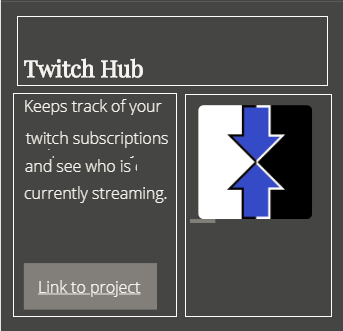
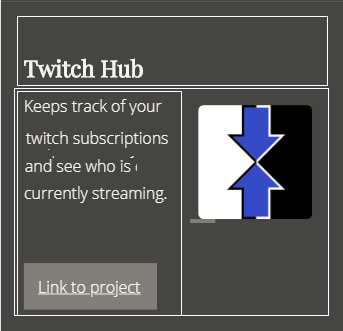
Extra text and box styling.

Changed region(s): [[0.0292, 0.2719, 0.9621, 0.9668], [0.9329, 0.2719, 0.9621, 0.3021]]

diff --git a/src/css/blocks/block/block.scss b/src/css/blocks/block/block.scss
@@ -14,6 +14,7 @@
     font-family: $serif-font;
     font-size: $large-font;
     font-style: normal;
+    border-bottom: 3px solid $text-light;
 }
 
 .block__container__main {
@@ -27,7 +28,7 @@
     text-align: left;
     height: 200px;
     margin-top: 0;
-    padding-right: 1rem;
+    padding-right: 4rem;
     font-family: $base-font;
     font-size: $medium-font;
     font-style: normal;
@@ -36,8 +37,8 @@
 
 .block__image {
     border-radius: 5%;
-    height: 10rem;
-    width: 10rem;
+    height: 150px;
+    width: 150px;
 }
 
 .block__image__double {

diff --git a/src/css/partials/partial.scss b/src/css/partials/partial.scss
@@ -4,9 +4,9 @@ $serif-font: 'Playfair Display', serif;
 $base-font: 'Open Sans', sans-serif;
 
 // Font Weights
-$small-font: 1.2rem;
-$medium-font: 1.4rem;
-$large-font: 2rem;
+$small-font: 16px;
+$medium-font: 19px;
+$large-font: 30px;
 $display-font: 3rem;
 
 // Colours

diff --git a/src/css/blocks/button/button.scss b/src/css/blocks/button/button.scss
@@ -5,7 +5,7 @@
     border: none;
     padding: 15px;
     font-family: $base-font;
-    font-size: $medium-font;
+    font-size: $small-font;
     background-color: $secondary-colour;
     color: $text-light;
     font-style: normal;
